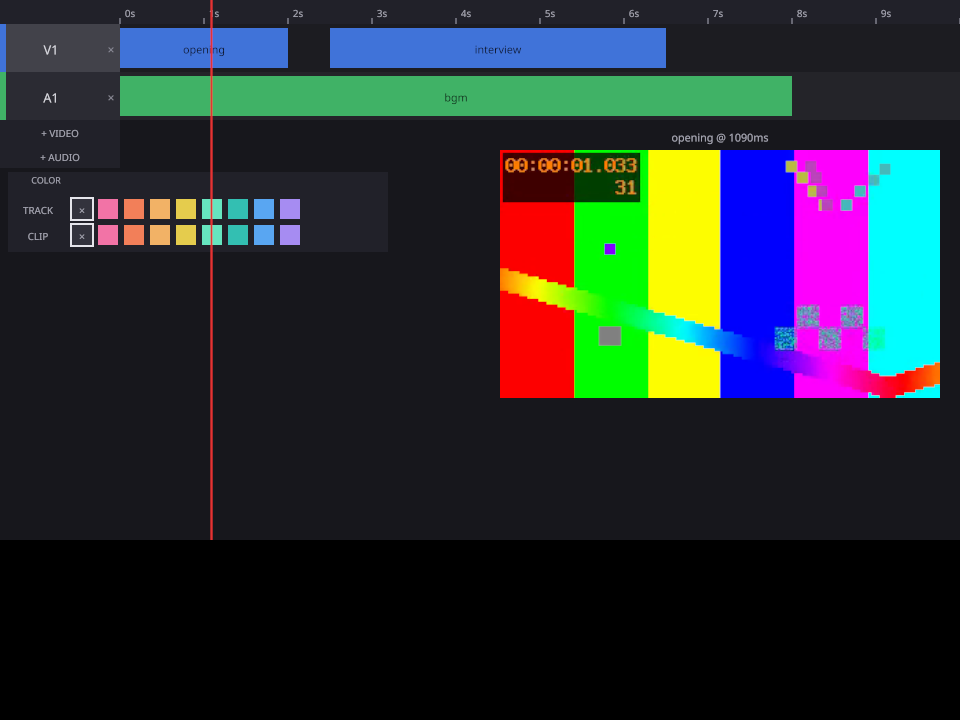
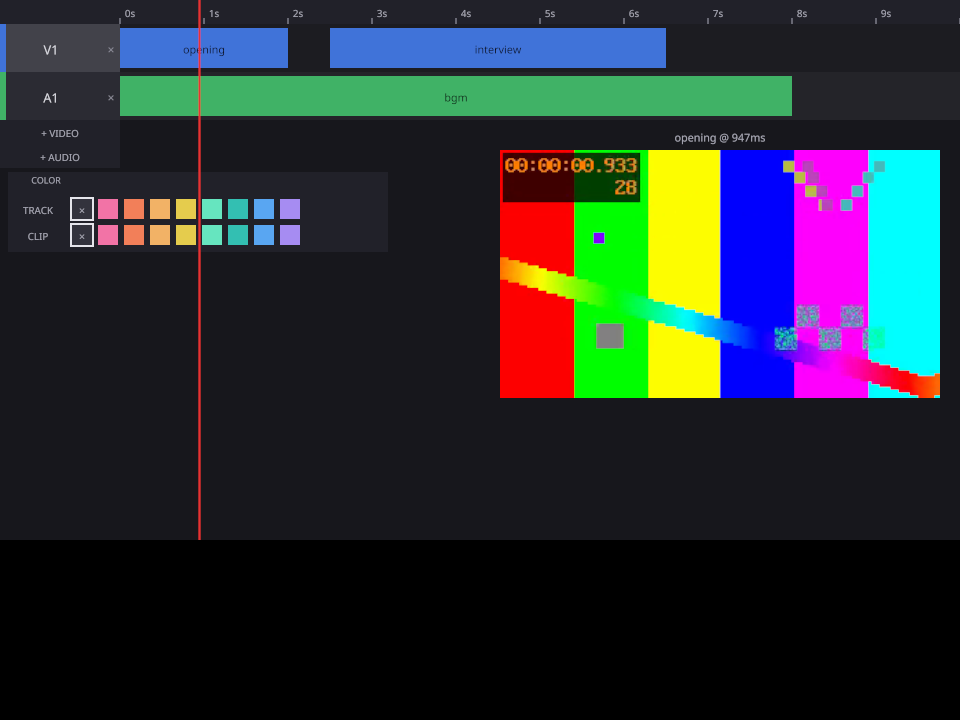
#46 レビュー対応: クリップ矩形とルーラー目盛りをヘッダー列の右端で切り取り、スクロール時にヘッダーが塗り潰されないようにする (Refs #46)

diff --git a/apps/video-editor/src/timeline.rs b/apps/video-editor/src/timeline.rs
@@ -170,17 +170,25 @@ pub struct ClipRect {
 }
 
 /// プロジェクトの全クリップの描画矩形を、トラック順・クリップ順で返す。
+/// 矩形はヘッダー列の右端で切り取る（Issue #46 レビュー指摘）:
+/// スクロールで左端が画面外に出たクリップがヘッダー（トラック名や
+/// 削除ボタン）の上へ描かれないようにし、ヒットテストの境界
+/// （x < HEADER_WIDTH_PX は Outside）と一致させる。
 pub fn layout_clips(project: &Project, view_width_px: f32, scale: &ViewScale) -> Vec<ClipRect> {
     let mut rects = Vec::new();
     for (index, track) in project.tracks.iter().enumerate() {
         for clip in &track.clips {
+            let raw_x = scale.time_to_x(clip.start_ms, view_width_px);
+            let raw_w = clip.duration_ms as f32 * scale.px_per_ms(view_width_px);
+            let x = raw_x.max(HEADER_WIDTH_PX);
+            let w = (raw_x + raw_w - x).max(0.0);
             rects.push(ClipRect {
                 clip_id: clip.id,
                 track_id: track.id,
                 kind: track.kind,
-                x: scale.time_to_x(clip.start_ms, view_width_px),
+                x,
                 y: track_top_y(index),
-                w: clip.duration_ms as f32 * scale.px_per_ms(view_width_px),
+                w,
                 h: TRACK_HEIGHT_PX,
             });
         }
@@ -320,6 +328,52 @@ mod tests {
         assert_eq!(opening.y, RULER_HEIGHT_PX);
         assert_eq!(opening.h, TRACK_HEIGHT_PX);
         assert_eq!(opening.kind, TrackKind::Video);
+    }
+
+    #[test]
+    fn layout_clips_rects_at_header_edge_when_scrolled() {
+        // Issue #46 レビュー指摘: オフセットより前から始まるクリップは
+        // ヘッダー列（x < HEADER_WIDTH_PX）へはみ出さず、見えている
+        // 部分だけの矩形になる（描画とヒットテストの境界を一致させる）。
+        let project = sample_project();
+        let scale = ViewScale {
+            zoom: 1.0,
+            offset_ms: 1_500,
+        };
+        let rects = layout_clips(&project, 960.0, &scale);
+        let opening = &rects[0]; // 1000..3000、左端は画面外
+        assert_eq!(opening.x, HEADER_WIDTH_PX);
+        // 見えているのは 1500..3000 の 1500ms 分
+        assert!(
+            (opening.w - 1_500.0 * 0.084).abs() < 0.01,
+            "w={}",
+            opening.w
+        );
+        // 完全に表示範囲より前のクリップは幅 0 になる
+        let mut p2 = Project::new("t");
+        let v = studio_core::apply(
+            &mut p2,
+            &studio_core::Command::AddTrack {
+                name: "V1".into(),
+                kind: TrackKind::Video,
+            },
+        )
+        .unwrap()
+        .unwrap();
+        studio_core::apply(
+            &mut p2,
+            &studio_core::Command::AddClip {
+                track_id: v,
+                name: "past".into(),
+                start_ms: 0,
+                duration_ms: 500,
+                source: "demo/opening.mp4".into(),
+            },
+        )
+        .unwrap();
+        let rects2 = layout_clips(&p2, 960.0, &scale);
+        assert_eq!(rects2[0].x, HEADER_WIDTH_PX);
+        assert_eq!(rects2[0].w, 0.0);
     }
 
     #[test]

diff --git a/apps/video-editor/src/main.rs b/apps/video-editor/src/main.rs
@@ -912,6 +912,11 @@ fn view(app: &App, model: &Model, frame: Frame) {
         if x > win.w() {
             break;
         }
+        // ヘッダー列の内側には目盛り・ラベルを描かない（Issue #46
+        // レビュー指摘。クリップ矩形の切り取りと同じ境界）。
+        if x < timeline::HEADER_WIDTH_PX {
+            continue;
+        }
         let nx = x - win.w() / 2.0;
         draw.line()
             .start(pt2(nx, win.h() / 2.0 - timeline::RULER_HEIGHT_PX))
